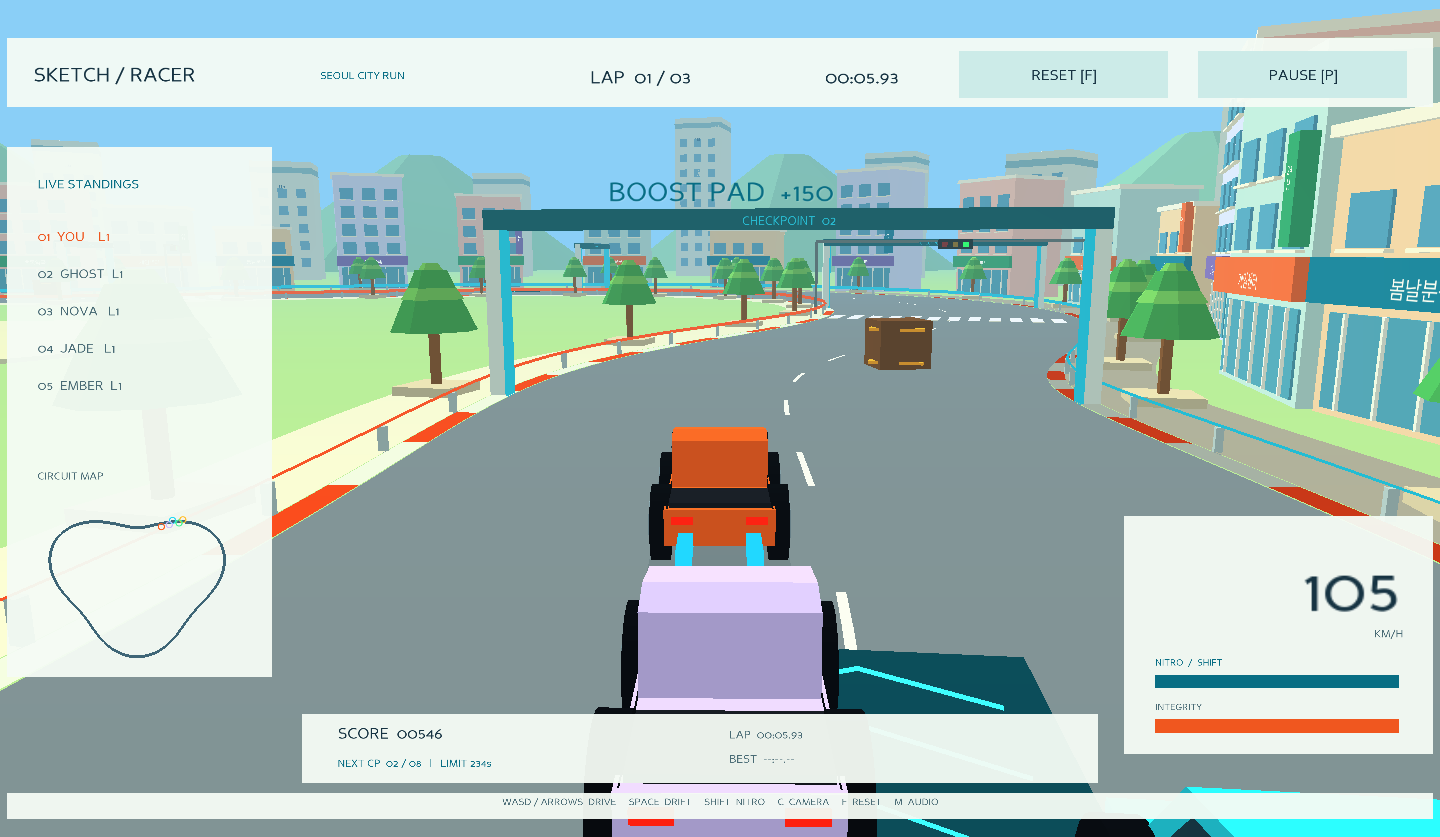
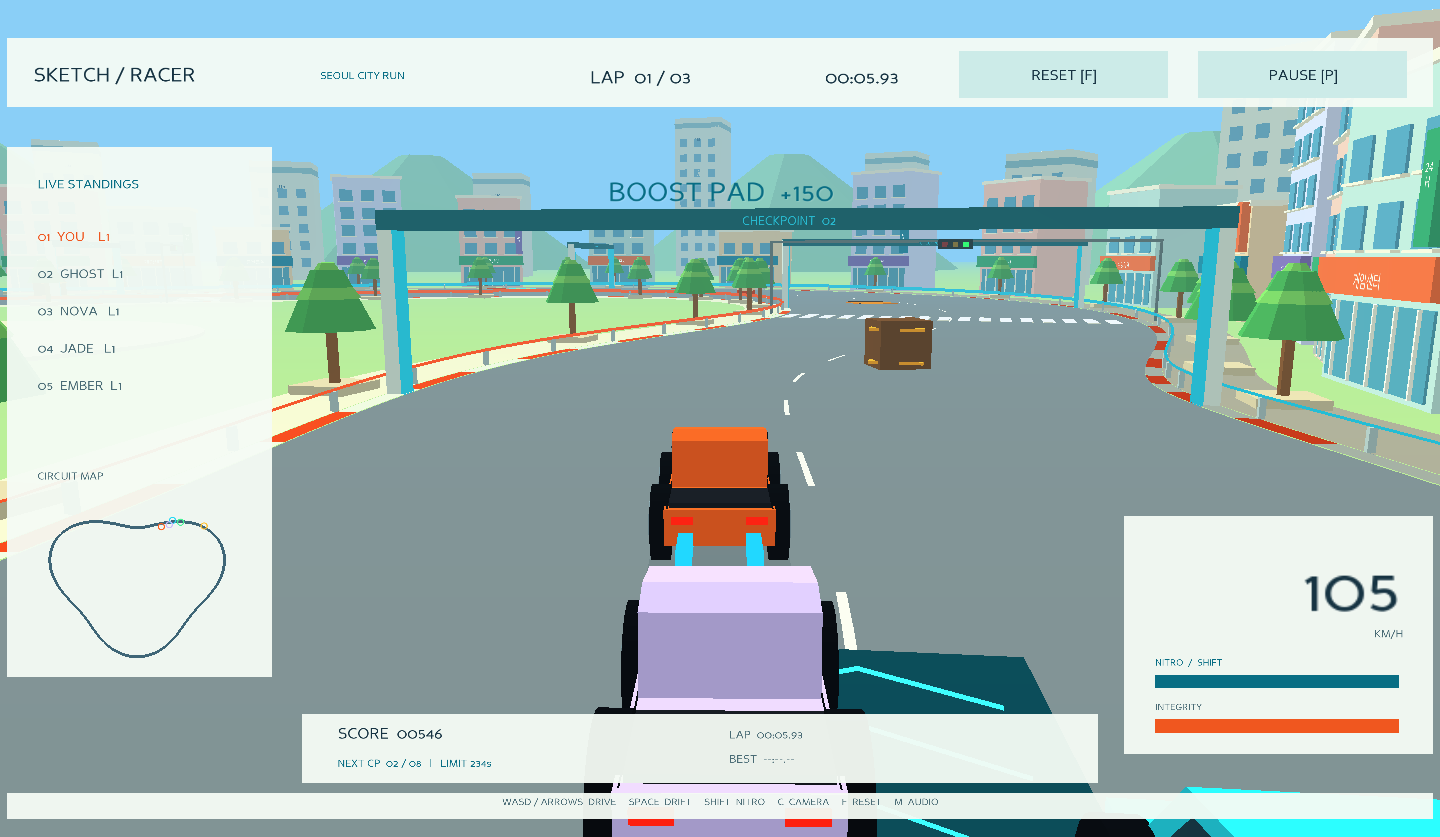
Add slowdown pads, fix shift steering input and widen city roads

diff --git a/sketch-racer-3d/racer/core.py b/sketch-racer-3d/racer/core.py
@@ -34,7 +34,7 @@ class Control:
 
 
 class Track:
-    width = 23.0
+    width = 32.0
 
     def __init__(self):
         self.points = []
@@ -98,6 +98,8 @@ class Car:
     hit_cooldown: float = 0
     boost_pad_cooldown: float = 0
     pad_boost: float = 0
+    pad_slow: float = 0
+    slow_pad_cooldown: float = 0
     boosted: bool = False
     finished: bool = False
     finish_time: float = 0
@@ -133,6 +135,8 @@ class Race:
             self.obstacles.append((x, y, radius, kind, s, lane))
         for s, lane in [(112, 0), (290, -2), (465, 1)]:
             self.pads.append((*self.track.at(s, lane), s))
+        self.slow_pads = [(*self.track.at(s, lane), s)
+                          for s, lane in [(55, -5), (220, 4), (395, -3.5)]]
         self.reset('menu')
 
     @property
@@ -170,7 +174,8 @@ class Race:
         c.track_s = self.track.project(c.x, c.y)[0]
         c.x, c.y, c.heading = self.track.at(c.track_s)
         c.vx = c.vy = 0
-        c.steer = c.wrong_way_time = c.pad_boost = 0
+        c.steer = c.wrong_way_time = c.pad_boost = c.pad_slow = 0
+        c.slow_pad_cooldown = 0
         c.boosted = False
         c.hit_cooldown = .4  # Brief contact grace without triggering impact camera shake.
         c.score = max(0, c.score-100)
@@ -240,12 +245,14 @@ class Race:
         c.hit_cooldown = max(0, c.hit_cooldown-dt)
         c.boost_pad_cooldown = max(0, c.boost_pad_cooldown-dt)
         c.pad_boost = max(0, c.pad_boost-dt)
+        c.pad_slow = max(0, c.pad_slow-dt)
+        c.slow_pad_cooldown = max(0, c.slow_pad_cooldown-dt)
         c.steer += (clamp(u.steer, -1, 1)-c.steer)*min(1, dt*9)
         forward_x, forward_y = math.cos(c.heading), math.sin(c.heading)
         longitudinal = c.vx*forward_x+c.vy*forward_y
         lateral = -c.vx*forward_y+c.vy*forward_x
-        c.boosted = (u.boost and c.energy > 0 and u.throttle > 0) or c.pad_boost > 0
-        if u.boost and c.energy > 0 and u.throttle > 0:
+        c.boosted = c.pad_slow <= 0 and ((u.boost and c.energy > 0 and u.throttle > 0) or c.pad_boost > 0)
+        if c.boosted and u.boost and c.energy > 0 and u.throttle > 0:
             c.energy = max(0, c.energy-25*dt)
         else:
             c.energy = min(100, c.energy+9*dt)
@@ -253,6 +260,9 @@ class Race:
         drag = .28*longitudinal+.006*longitudinal*abs(longitudinal)
         brake = clamp(u.brake, 0, 1)*32
         longitudinal = max(0, longitudinal+(engine-drag-brake)*dt)
+        if c.pad_slow > 0:
+            # Extra road resistance is time-based and leaves steering/braking available.
+            longitudinal *= math.exp(-1.2*dt)
         longitudinal = min(61 if c.boosted else 46, longitudinal)
         lateral *= math.exp(-(2.1 if u.drift else 8)*dt)
         yaw = longitudinal/3.3*math.tan(c.steer*.42)/(1+longitudinal*.065)
@@ -292,6 +302,19 @@ class Race:
                 c.score += 150
                 if c is self.player:
                     self.events.append('BOOST PAD  +150')
+        for x, y, h, _ in self.slow_pads:
+            dx, dy = c.x-x, c.y-y
+            along = dx*math.cos(h)+dy*math.sin(h)
+            across = -dx*math.sin(h)+dy*math.cos(h)
+            # Match the visible rectangle and trigger once, not once per physics tick.
+            if abs(along) <= 2.75 and abs(across) <= 2.4 and c.slow_pad_cooldown <= 0:
+                c.pad_slow, c.slow_pad_cooldown = 1.8, 3.0
+                c.vx *= .6
+                c.vy *= .6
+                c.pad_boost = 0
+                c.boosted = False
+                if c is self.player:
+                    self.events.append('SLOW PAD  /  GRIP ZONE')
         ds = (s-c.track_s+self.track.length/2) % self.track.length-self.track.length/2
         # Only physically plausible, on-road forward crossings can earn gates.
         if abs(ds) < max(2, c.speed*dt*3):

diff --git a/sketch-racer-3d/tests/test_race.py b/sketch-racer-3d/tests/test_race.py
@@ -179,6 +179,62 @@ class RaceTests(unittest.TestCase):
             positions.append(c.y)
         self.assertAlmostEqual(positions[0],-positions[1])
 
+    def test_slow_pad_reduces_speed_without_damage_or_repeated_hits(self):
+        r=self.race()
+        for c in (r.player,r.cars[1]):
+            x,y,h,s=r.slow_pads[0]
+            c.x,c.y,c.heading,c.track_s=x,y,h,s
+            c.vx,c.vy=30*math.cos(h),30*math.sin(h)
+            c.pad_boost=1
+            health=c.health
+            r._drive(c,Control(throttle=1,boost=True),DT)
+            self.assertLess(c.speed,19)
+            self.assertEqual(c.health,health)
+            self.assertEqual(c.pad_slow,1.8)
+            self.assertFalse(c.boosted)
+            self.assertEqual(c.pad_boost,0)
+            speed=c.speed
+            energy=c.energy
+            r._drive(c,Control(throttle=1,boost=True,steer=1),DT)
+            self.assertGreater(c.speed,speed*.9)  # No repeated 40% multiplication.
+            self.assertGreaterEqual(c.energy,energy)  # No wasted nitro while slowed.
+            self.assertGreater(c.steer,0)
+        self.assertEqual(r.events.count('SLOW PAD  /  GRIP ZONE'),1)
+
+    def test_slow_pad_bounds_expiry_and_respawn(self):
+        r=self.race()
+        c=r.player
+        x,y,h,s=r.slow_pads[0]
+        c.x=x-math.sin(h)*2.8
+        c.y=y+math.cos(h)*2.8
+        c.heading=h
+        r._drive(c,Control(),DT)
+        self.assertEqual(c.pad_slow,0)  # Missing the visible pad must not slow a car.
+        c.pad_slow=.01
+        c.x,c.y,c.heading=r.track.at(10)
+        for _ in range(3):
+            r._drive(c,Control(throttle=1,boost=True),DT)
+        self.assertEqual(c.pad_slow,0)
+        self.assertTrue(c.boosted)
+        c.pad_slow=1.8
+        r.recover()
+        self.assertEqual(c.pad_slow,0)
+        r.reset()
+        self.assertEqual(r.player.slow_pad_cooldown,0)
+
+    def test_accelerating_and_boosting_can_turn_both_directions(self):
+        for steer in (-1,1):
+            r=self.race()
+            r.track.width=200  # Isolate input response from barriers and scenery.
+            r.obstacles=[]
+            c=r.player
+            original=c.heading
+            c.vx,c.vy=35*math.cos(original),35*math.sin(original)
+            for _ in range(40):
+                r._drive(c,Control(throttle=1,boost=True,steer=steer),DT)
+            self.assertGreater((c.heading-original)*steer,.1)
+            self.assertGreater(c.speed,25)
+
     def test_complete_three_laps_with_real_controls(self):
         r=self.race()
         # Uses the same steering/throttle physics as keyboard input; no teleporting.

diff --git a/sketch-racer-3d/verify_ui.py b/sketch-racer-3d/verify_ui.py
@@ -31,6 +31,25 @@ def main():
         lo,hi=left.getTightBounds(root)
         rlo,rhi=right.getTightBounds(root)
         assert abs(lo.x+rhi.x)<1e-5 and abs(hi.x+rlo.x)<1e-5
+    # These engine settings prevent Shift from renaming steering key events.
+    assert game.mouseWatcherNode.getModifierButtons().getNumButtons()==0
+    assert all(t.node().getModifierButtons().getNumButtons()==0 for t in game.buttonThrowers)
+    for forward,left,right in [('w','a','d'),('arrow_up','arrow_left','arrow_right')]:
+        for order in [('shift',forward,left),(forward,left,'shift')]:
+            game.keys.clear()
+            for key in order:
+                game.messenger.send(key)
+            u=game.controls()
+            assert u.throttle==1 and u.steer==1 and u.boost
+            game.messenger.send(left+'-up')
+            game.messenger.send(right)
+            assert game.controls().steer==-1 and game.controls().throttle==1
+            game.messenger.send('shift-up')
+            assert not game.controls().boost and game.controls().steer==-1
+            game.messenger.send(right+'-up')
+            game.messenger.send(forward+'-up')
+            assert game.controls().throttle==0 and game.controls().steer==0
+    game.keys.clear()
     tick(50)
     assert not game.menu.isHidden()
     game.win.saveScreenshot(str((output/'start.png').resolve()))

diff --git a/sketch-racer-3d/racer/app.py b/sketch-racer-3d/racer/app.py
@@ -3,7 +3,7 @@ import math
 from pathlib import Path
 
 from panda3d.core import (loadPrcFileData, Vec3, Vec4, AmbientLight,
-    DirectionalLight, Fog, TextNode, WindowProperties, ClockObject)
+    DirectionalLight, Fog, TextNode, WindowProperties, ClockObject, ModifierButtons)
 from direct.showbase.ShowBase import ShowBase
 from direct.gui.DirectGui import DirectFrame, DirectButton, DirectWaitBar
 from direct.gui.OnscreenText import OnscreenText
@@ -82,6 +82,12 @@ class Game(ShowBase):
         self.car_nodes=[build_car(self.render,c.color) for c in self.race.cars]
         self.audio=Audio(self.loader,ROOT/'.cache'/'audio')
         self._build_ui()
+        # Keep Shift+W/A/D and Shift+arrows as independent held keys. Otherwise
+        # Panda prefixes events (e.g. "shift-a") and the steering binding misses them.
+        if self.mouseWatcherNode:
+            self.mouseWatcherNode.setModifierButtons(ModifierButtons())
+        for thrower in self.buttonThrowers or []:
+            thrower.node().setModifierButtons(ModifierButtons())
         for key in ['w','a','s','d','arrow_up','arrow_down','arrow_left','arrow_right','space','shift']:
             self.accept(key,self._key,[key,True])
             self.accept(key+'-up',self._key,[key,False])

diff --git a/sketch-racer-3d/racer/visuals.py b/sketch-racer-3d/racer/visuals.py
@@ -182,6 +182,17 @@ def build_world(parent, race, korean_font=None):
         for v in (-1.6,0,1.6):
             arrow=lines(pad,[(-1.8,v-.5,.08),(0,v+.45,.08),(1.8,v-.5,.08)],(.24,1,1,1),5)
             arrow.setLightOff()
+    # Warm hazard stripes and SLOW distinguish these from cyan acceleration pads.
+    for x,y,h,s in race.slow_pads:
+        pad=world.attachNewNode('slow-pad')
+        pad.setPos(x,y,.07)
+        pad.setH(math.degrees(h)-90)
+        box(pad,(0,0,0),(4.8,5.5,.08),(.95,.48,.08,1))
+        for v in (-2.1,-1.5,1.5,2.1):
+            stripe=box(pad,(0,v,.055),(4.5,.22,.025),(.22,.15,.10,1))
+            stripe.setLightOff()
+        label=text3d(pad,'SLOW',(0,-.4,.1),.85,(.14,.10,.07,1))
+        label.setP(-90)
     for x,y,r,kind,s,lane in race.obstacles:
         if kind=='crate':
             obj=box(world,(x,y,1.25),(r*1.7,r*1.7,2.5),(.42,.27,.15,1))

diff --git a/sketch-racer-3d/README.md b/sketch-racer-3d/README.md
@@ -53,7 +53,7 @@ VS Code의 Python 확장과 Python Debugger 확장을 설치하고, 인터프리
 ## 밝은 한국 도심 업데이트
 
 - 하늘색 하늘, 파스텔 건물, 한국식 상가와 아파트, 가로수·횡단보도·신호등을 배치했습니다.
-- 도로 폭은 23m이며, 도로·보도·게이트 모두 같은 폭 설정을 사용합니다.
+- 도로 폭은 32m이며, 도로·보도·게이트 모두 같은 폭 설정을 사용합니다.
 - 바퀴와 림을 좌우 대칭으로 배치하고 차량 중심에서 회전합니다. 충돌은 중심 기준 회전 사각형으로 판정합니다.
 - 벽 접촉 시 약한 반발과 미끄러짐을 적용해 튕김과 급격한 감속을 줄였습니다.
 - **WRONG WAY**: 2m/s 이상 반대 방향 이동을 1초 이상 유지할 때 상단에 표시합니다.
@@ -63,6 +63,17 @@ VS Code의 Python 확장과 Python Debugger 확장을 설치하고, 인터프리
   주행 중 및 일시정지 중 사용할 수 있고, **R**은 기존처럼 레이스 전체 재시작입니다.
 - 한글 간판은 설치된 macOS/Windows/Noto 한국어 폰트를 사용합니다. 해당 폰트가 없으면 영문 간판으로
   표시하므로 별도 폰트 다운로드 없이 실행됩니다. 신호등은 폐쇄된 레이스 코스의 녹색 고정 장식입니다.
+
+## 감속 발판과 조향 개선
+
+- 주황색 줄무늬 **SLOW 발판 3개**를 추가했습니다. 접촉하면 속도가 40% 줄고,
+  1.8초 동안 추가 마찰이 적용됩니다. 방향 조작과 브레이크는 계속 작동합니다.
+- 감속 중에는 니트로 가속을 잠시 막고 에너지를 소모하지 않습니다. 기존 발판 가속은 취소됩니다.
+  발판 접촉은 3초 간격으로만 발동하므로 한 번 밟았다고 매 프레임 감속하지 않습니다.
+  AI에도 같은 규칙이 적용되고, Reset 및 새 레이스에서 감속 효과가 해제됩니다.
+- 도로를 23m에서 **32m**로 넓혔습니다. 연석·보도·건물·게이트·신호등도 폭에 맞춰 이동합니다.
+- Shift를 누른 상태에서 W/A/D 또는 방향키 입력이 누락되던 조합키 이벤트 처리를 수정했습니다.
+  참고: [Panda3D 키보드 입력 문서](https://docs.panda3d.org/1.10/python/programming/hardware-support/keyboard-support#modifier-keys)
 
 ## 레이스 규칙
 
